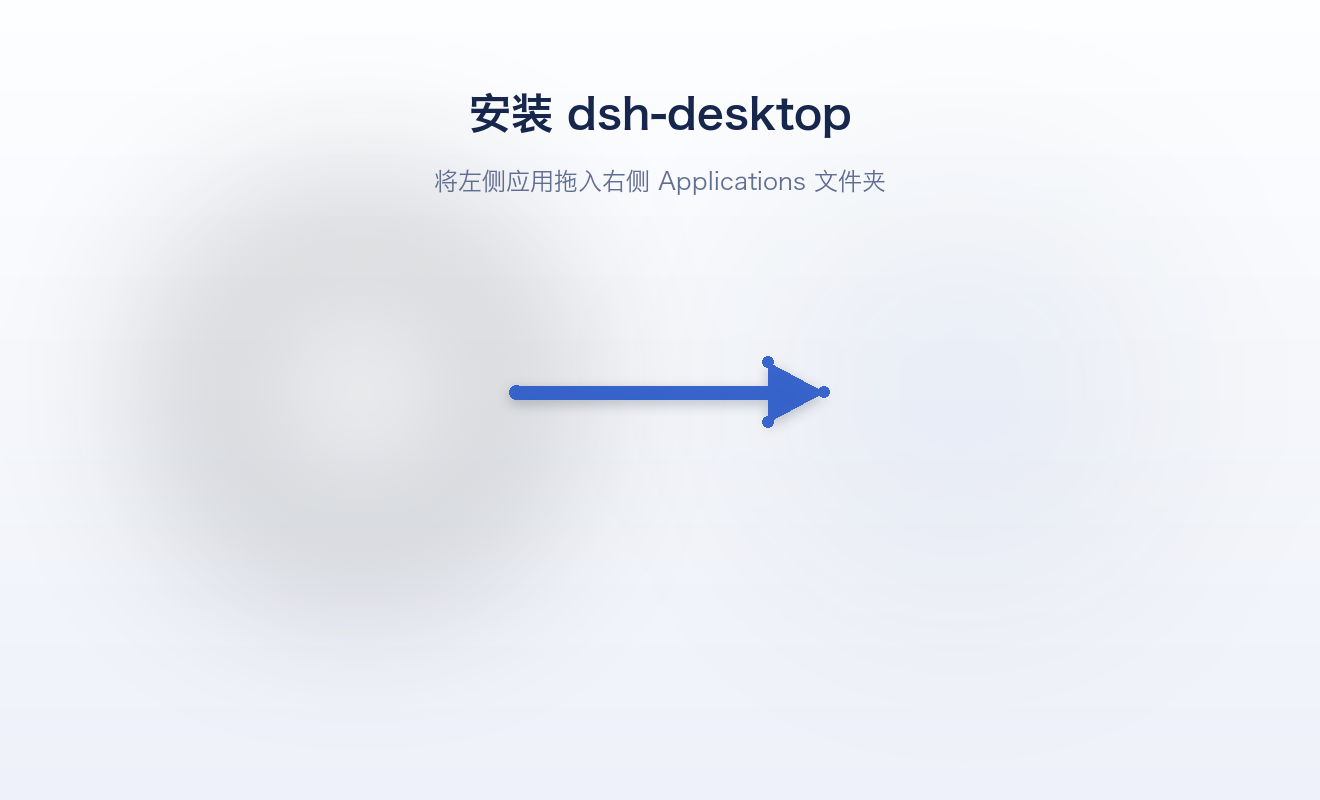
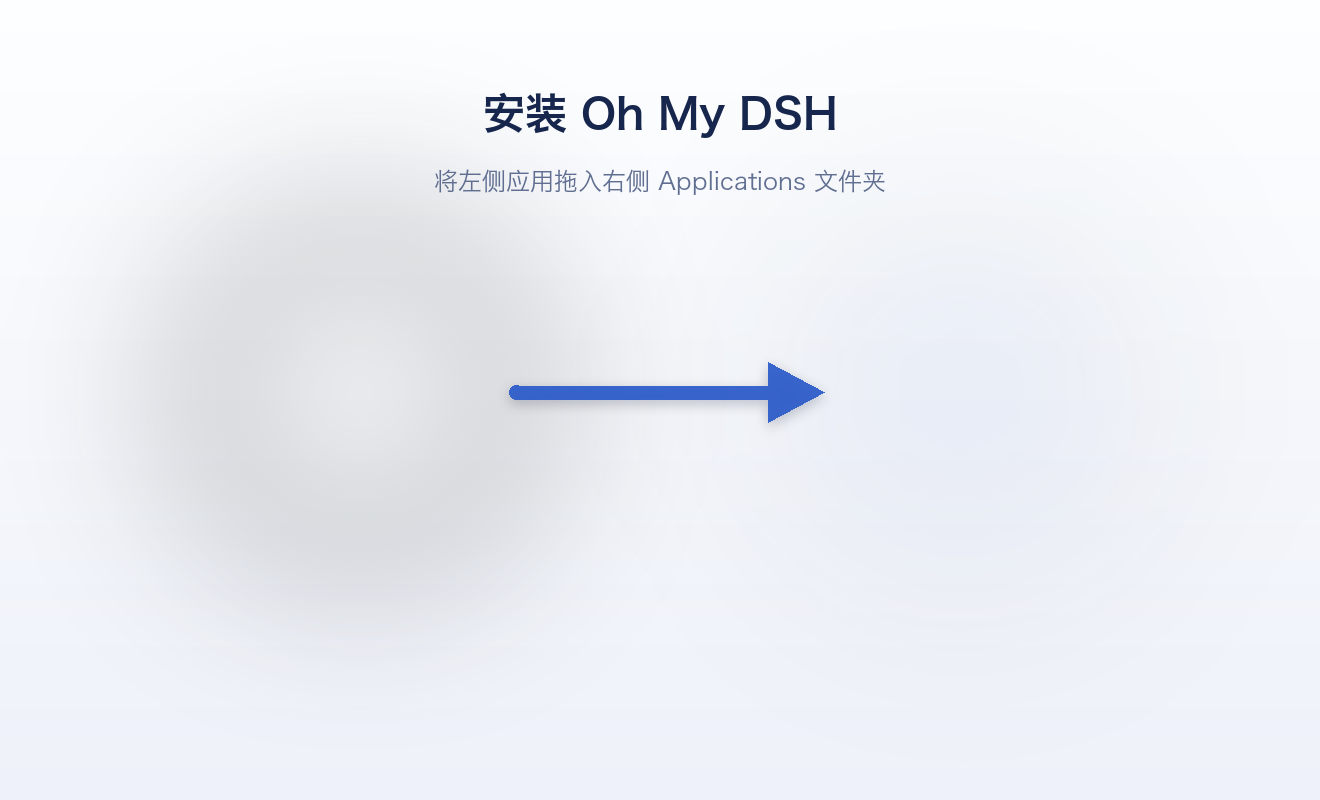
feat: rebrand desktop app as Oh My DSH

Changed region(s): [[0.3417, 0.0938, 0.6523, 0.1875]]

diff --git a/scripts/generate-dmg-background.py b/scripts/generate-dmg-background.py
@@ -74,12 +74,10 @@ def draw_arrow(img):
     d = ImageDraw.Draw(layer)
     brand = (42, 90, 201, 235)         # #2A5AC9 @ 92%
     rounded_line(d, (x0, y), (x1, y), shaft_w, brand)
-    # arrowhead: triangle with slightly rounded look via extra joint discs
+    # Keep the arrowhead as a clean triangle; corner discs become oversized
+    # dots after supersampling and make the installation cue look noisy.
     d.polygon([(x1 - 2 * S, y - head_half), (x1 - 2 * S, y + head_half), (tip, y)],
               fill=brand)
-    for p in [(x1 - 2 * S, y - head_half), (x1 - 2 * S, y + head_half), (tip, y)]:
-        r = 2.6 * S
-        d.ellipse([p[0] - r, p[1] - r, p[0] + r, p[1] + r], fill=brand)
     img.alpha_composite(layer)
 
 
@@ -88,7 +86,7 @@ def draw_text(img):
     title = ImageFont.truetype(FONT_CJK, 21 * S, index=2)      # W6
     sub = ImageFont.truetype(FONT_CJK, 12 * S, index=0)        # W3
 
-    t = "安装 dsh-desktop"
+    t = "安装 Oh My DSH"
     tw = d.textlength(t, font=title)
     d.text(((PW - tw) / 2, 46 * S), t, font=title, fill=(22, 38, 76, 255))
 

diff --git a/src-tauri/src/lib.rs b/src-tauri/src/lib.rs
@@ -166,7 +166,7 @@ pub fn run() {
                 Ok(BootOutcome::ExitRequested) => app_handle.exit(0),
                 Err(error) => {
                     eprintln!("dsh-desktop: boot failed: {error}");
-                    native_dialog::alert("无法启动 DeepSeek Harness", &error);
+                    native_dialog::alert("无法启动 Oh My DSH", &error);
                     app_handle.exit(1);
                 }
             });
@@ -2178,7 +2178,7 @@ fn open_main_window(app: &tauri::AppHandle, url: &str, e2e: bool) -> Result<(), 
     let load_parsed: tauri::Url = load_url.parse().map_err(|e| format!("parse {load_url}: {e}"))?;
     app.run_on_main_thread(move || {
         let builder = WebviewWindowBuilder::new(&handle, "main", WebviewUrl::External(load_parsed))
-            .title("DeepSeek Harness")
+            .title("Oh My DSH")
             .inner_size(1400.0, 900.0)
             .initialization_script(&init_script);
         // macOS: the traffic lights float over the page and no native title

diff --git a/AGENTS.md b/AGENTS.md
@@ -108,7 +108,7 @@ npm 版本依赖是**唯一常态**；源码依赖仅限本地调试，且只能
 - **DSH_HOME 所有权**：默认共享真实用户 home 下的 `.dsh`（Unix `$HOME/.dsh`，Windows `%USERPROFILE%\.dsh`）——桌面与终端是同一账号的两个面（会话历史、工作区、settings、credentials 全部同源可见）。`$DSH_HOME` env 可强制隔离。`~/.dsh-desktop/` 只放壳私有编排数据：`logs/install.log`、`profile-adoptions/<home-hash>/` 经短期跨进程 append lock 串行化的追加式接管状态（损坏记录隔离保留、同 revision 歧义降为 `ConsentRequired`，不得永久阻断启动）、`profile-backups/<home-hash>/<backup-id>/` 可恢复 Web Profile 快照；**sidecar 的 harness 输出走 fork 的 `web:log` 约定**：每次启动一个 `$DSH_HOME/logs/desktop-<yyyymmdd-HHMMSS>.log` + `desktop-latest.log` 软链（与终端 `web-*` 同目录、前缀区分，`DSH_WEB_LOG_DIR` 可覆盖目录；软链 unix-only，Windows 尽力而为、失败则只有 per-boot 文件）。⚠ 并发注意：harness 对同一 DSH_HOME 没有多进程锁；单用户下基本安全（会话是 per-session JSONL，JSON storages 是整文件 last-wins 原子写），但同一会话同时被两个面驱动是未定义行为；协调式单实例是壳 M2 项。**首次接管现有共享 Home 的授权边界**：恢复完壳自己遗留的 Profile 事务后、任何新 mutation 前检查接管状态；既有 Home 必须原生提示 `备份并继续 / 查看变更 / 退出`，说明只更新共享 Web Profile，并保留 sessions、credentials、settings、`.agent-presets`、home patch、其他 profiles 与其他插件；空 Home 不提示但先落 `Adopting` 记录并以 `ProfileExpectation::Missing` 双重检查，防下一次把 Desktop 自建数据误认作用户既有数据，也防检查后终端新建 Profile 的 TOCTOU；发现该竞态则转 `ConsentRequired`、退出并在下一次重新提示。确认后把当前 `profiles/web` 配置（排除可重建 `node_modules`）持久备份到壳私有目录，复制前后校验源身份，安装事务再以该身份做 CAS；已运行过旧版 Desktop 的用户只能诚实备份“当前 Web Profile”，不宣称是历史 pre-Desktop 状态。每次启动把 bridge、compaction 与 web-search-toggle 作为**同一个 Profile 事务**幂等安装（三者目标 realpath 均一致时跳过）：壳在真实 `DSH_HOME` 同级创建等深、同卷的 shadow home，复制 web Profile 的全部配置但不复制 `node_modules`，并把 home 根 `cordis.patch.yml` 只读复制到 shadow 供完整配置校验；在 shadow 中执行旧闭包 frozen install → 三包 `plugin add` → 新闭包 frozen install → 原依赖 realpath/受保护配置/`--dump-config` 校验；全部成功后才以 immutable journal + append-only phase records + rename 提交整棵 `profiles/web`。失败时真实 Profile 不动；提交中断由下一次启动按 durable phase 与 profile marker 确定回滚或收尾；另一个桌面进程持有 journal 或提交前及 `real -> backup` 后检测到真实 Profile 配置、home patch 或 `node_modules` 顶层身份被终端改动时回滚并 fail loud；backup 删除前再复核一次。安装失败必须在 sidecar 启动前原生展示 `重试 / 恢复已保存备份 / 退出`（无备份则没有恢复项），所有 native dialog backend 失败都按退出处理，consent/破坏性动作的默认焦点也是退出；`DSH_DESKTOP_DIALOG_DEFAULT` 自动选择仅在 debug build 或 `DSH_DESKTOP_E2E_PROBE=1` 生效；恢复先追加 `RestorePending` 并绑定当前 Profile 身份，再把快照复制到 shadow、frozen install、完整校验后走同一 journal 提交，因崩溃重启时只收尾已匹配的快照或按 CAS 重试，绝不覆盖恢复请求之后的终端修改（当前 Profile 已删除时允许以 `Missing` CAS 重建）；若终端已产生新内容或恢复持续失败，用户可显式“保留当前 Profile”转 `RestoreAbandoned`，下次重新授权，不能形成永久重试死循环。备份损坏/缺失必须原生 fail loud，可保留当前 Profile 并转 `ConsentRequired`，但不得静默使用或删除该备份；后续清理也保留校验不通过的旧目录。成功转 `Restored`、提示后退出，下次启动重新征求授权。所有其他致命启动错误也必须原生可见，不能只写 stderr。bridge 与 web-search-toggle 的 bundle 层进入 web Profile；compaction 的空 bundle 层只登记可解析包。Windows 原生进程读 `%USERPROFILE%`，不用 Git Bash 的 `$HOME=/c/Users/...`（那不是 Win32 路径）。
 - **端口**：`TcpListener::bind("127.0.0.1:0")` 取随机口，就绪探测 `GET /`（webserver 的 SPA index 路由）状态 2xx（500ms 间隔，120s 超时；tsx 冷启动慢）。
 - **WKWebView 已知坑（已修）**：webserver 对 loopback 并发 **chunked** 响应（无 content-length）会被 WKWebView 随机挂死/加载失败（39 个 boot bundle 突发时必现；Chrome 无此问题）。修复在 harness `packages/client/modules/src/index.ts` 的 serveBundle 显式 `content-length`；sidecar 从源码运行改源即生效，值得上游到 fork。
-- **窗口**：就绪后主线程建 `main` 窗口（1400×900）加载 `http://127.0.0.1:<port>`；初始化脚本注入冻结的 `window.__DSH_DESKTOP__`（platform = `std::env::consts::os`）。macOS 用 `TitleBarStyle::Overlay`：红绿灯悬浮进页面、不画原生标题栏。注意 Overlay 只设 `fullSizeContentView` + `titlebarAppearsTransparent`，**窗口标题文本仍会画进悬浮带**（与页面 logo 重复的「DeepSeek Harness」就是这么来的）——建窗后经 objc2-app-kit 调 `NSWindowTitleVisibility::Hidden`（`hide_painted_title`；直接依赖 `objc2-app-kit`，本就经 tao/wry 在依赖树内）不画标题但保留字符串给 Mission Control / Window 菜单；**红绿灯按 Electron `WindowButtonsProxy` 钉位**（`inset_traffic_lights`：改 close.superview.superview 即 titleBarContainer 的 frame，把它钉在窗口顶边，再在容器内放三钮——只改按钮会输给缩放动画中的系统 layout。目标：圈中线 y19 对齐带内开关 `top:8/22`，红灯左缘 x16 对齐侧栏字标线。`observe_titlebar_layout` 订 `NSWindowDidResize`（缩放动画每一帧都发；Tauri 的 `Resized` 往往只在动画结束才发，太晚）+ `DidEndLiveResize` + 进出全屏；`WillEnter/WillExitFullScreen` 先藏容器防跳，结束后 redraw 复位）；桥插件侧配合见「功能面」标题栏融合条目。其他平台保留原生标题栏。
+- **窗口**：就绪后主线程建 `main` 窗口（1400×900）加载 `http://127.0.0.1:<port>`；初始化脚本注入冻结的 `window.__DSH_DESKTOP__`（platform = `std::env::consts::os`）。macOS 用 `TitleBarStyle::Overlay`：红绿灯悬浮进页面、不画原生标题栏。注意 Overlay 只设 `fullSizeContentView` + `titlebarAppearsTransparent`，**窗口标题文本仍会画进悬浮带**（与页面 logo 重复的「Oh My DSH」就是这么来的）——建窗后经 objc2-app-kit 调 `NSWindowTitleVisibility::Hidden`（`hide_painted_title`；直接依赖 `objc2-app-kit`，本就经 tao/wry 在依赖树内）不画标题但保留字符串给 Mission Control / Window 菜单；**红绿灯按 Electron `WindowButtonsProxy` 钉位**（`inset_traffic_lights`：改 close.superview.superview 即 titleBarContainer 的 frame，把它钉在窗口顶边，再在容器内放三钮——只改按钮会输给缩放动画中的系统 layout。目标：圈中线 y19 对齐带内开关 `top:8/22`，红灯左缘 x16 对齐侧栏字标线。`observe_titlebar_layout` 订 `NSWindowDidResize`（缩放动画每一帧都发；Tauri 的 `Resized` 往往只在动画结束才发，太晚）+ `DidEndLiveResize` + 进出全屏；`WillEnter/WillExitFullScreen` 先藏容器防跳，结束后 redraw 复位）；桥插件侧配合见「功能面」标题栏融合条目。其他平台保留原生标题栏。
 - **IPC 能力**：capability 授 `core:default` + `core:window:allow-start-dragging` + `core:window:allow-internal-toggle-maximize`（拖拽条用，Tauri 2 `data-tauri-drag-region` 的运行时命令）+ 全部 `allow-dsh-desktop-*` 权限（`build.rs` 的 `AppManifest::commands` 自动生成，标识符把下划线转连字符），remote urls 模式 `http://127.0.0.1:*`（随机端口）。
 - **命令后端**：open_external 按平台 `open` / `cmd /C start "" <url>` / `xdg-open`，先做 scheme 白名单（http/https/mailto/tel）；notify 用 `osascript display notification`（darwin）/ PowerShell WinRT toast（windows，AppId `dev.dsh.desktop`）/ `notify-send`（linux），title/body 做引号或 XML 转义。
 - **sidecar 监护（已落地，含优雅退出阶梯与进程组 / Job Object）**：Unix 上 sidecar spawn 进**独立进程组**（`process_group(0)`），终止信号打 `-pgid`——一次内核调用原子覆盖 sidecar 全树（harness 自己 spawn 的 MCP server、工具子进程），无树遍历、无 TOCTOU；`setsid` 逃逸者由下次启动清扫兜底。Windows 上 sidecar 进带 `KILL_ON_JOB_CLOSE` 的 Job Object（壳崩溃即杀整树）；Assign 失败（父进程已在禁止 breakaway 的 job 里）则降级 `taskkill /T`。壳捕获 SIGINT/TERM/HUP（handler 只写原子量，poller 线程执行关闭；Windows 走 `RunEvent::Exit`），退出统一走 **组 SIGTERM→3s→组 SIGKILL 阶梯**（Windows：`taskkill` WM_CLOSE → 3s → `/F`），`RunEvent::Exit` 同路径，收尾后删除自己的注册条目。防孤儿第二道保险——**stale-sidecar 注册表** `~/.dsh-desktop/sidecars.json`：spawn 时记录 `{sidecar/shell pid + 启动时刻, port, log}`，每次启动先清扫再 spawn。清扫**只作用于注册表内 pid**（绝不按进程名扫表，终端 `dsh web` 不可能被误伤）；pid 复用由启动时刻等值比较挡住（Unix `ps lstart`，Windows `GetProcessTimes` FILETIME；复用 pid 的时刻与记录不符 → 视为死）；注册表损坏 fail-open 读空。清扫决策：shell 活 & sidecar 活 → 保留（另一在跑的壳所有）；sidecar 死 → 忘记；shell 死 & sidecar 活 → 孤儿，走阶梯回收后忘记。上游跟踪：tauri#14443（sidecar 树杀 + PID 注册表 PR）与 plugins-workspace#1332（shell 插件 process-group 选项，process-wrap）均已留评论分享实测数据。
@@ -222,6 +222,6 @@ DSH_DESKTOP_E2E_PROBE=1 DSH_DESKTOP_E2E_EXIT=1 pnpm desktop:dev; echo "exit=$?"
 
 ### 打包（M3 已落地，手册：`docs/packaging-playbook.md`）
 
-`pnpm desktop:build` 一键出平台安装包：macOS `.app` + `.dmg`（aarch64；**签名+公证版 ~160MB**，ad-hoc 降级 ~113MB）；Windows NSIS `*-setup.exe`（x86_64，currentUser，不需管理员）。**runtime 必须在目标 OS 上组装**（native 模块与 node 二进制布局），缓存键含 `platform-arch`。资源走 **tarball** 而非散目录：runtime 树是 pnpm 安装（Unix 3k+ 符号链接；Windows 用 `node-linker=hoisted` 实目录——bsdtar 会把 junction 展开成拷贝，isolated 布局下 `tsx` 会丢 `esbuild`），tauri-bundler 对目录资源不承诺保链接（解引用拷贝会让 .pnpm store 膨胀 GB 级）；tar 往返在 Unix 上链接感知，且解压到 home 规避 App Translocation 只读卷。Windows 解压：GNU tar 需要 `--force-local`（否则 `C:` 被当成远程主机）；Win11 自带 bsdtar 3.8.4 不认该选项且绝对路径可直接解——prepare 与壳按 `tar --help` 探测后按需加 flag。`beforeBuildCommand` 先跑 `scripts/prepare-desktop-bundle.mjs`（bridge + compaction + web-search-toggle + model-image-input + send-while-running 构建 → runtime 组装（SHA 键控缓存 + `SCRIPT_REV` 组装版本盐）→ 打 `src-tauri/resources/{runtime.tar.gz,runtime-revision.json,bridge.tar.gz,compaction-hierarchical.tar.gz,web-search-toggle.tar.gz,model-image-input.tar.gz,send-while-running.tar.gz}`，gitignored、按需再生；revision 副本含六个 tarball 的 **sha256** 与 Web Search / model-image-input / send-while-running 插件版本，壳的 `.ok` 缓存按资源内容寻址——同 revision 的任一插件重建都会重解压对应包）。**bundled runtime 与源码 runtime 行为对齐**：tsx 是 runtime 一等依赖，`bundled_runtime` 同样 `--import tsx/esm`——profile 可挂 `file:` 源码分发插件（.ts 入口），纯 Node 拒绝剥 node_modules 下的类型（0.1.0 实踩：真实 home 全树崩溃，scratch home 测不出，**e2e 矩阵必须含真实 home 场景**）。**裸 `cargo build/check` 会因 build.rs 校验资源缺失而失败**，必须先 prepare。分发：**macOS 签名+公证已落地**——`.app`/`.dmg` 均 `spctl` 应答 `source=Notarized Developer ID`（**公证扫描会钻进 tar.gz**，runtime 树 16 个 Mach-O 打 tar 前逐个 Developer ID 签名，`DSH_CODESIGN_IDENTITY` 门控 + allow-jit entitlements；hardened runtime 已开；DMG 需 `notarytool submit` 单独公证；ASC 个人 API 密钥不能用于 notarytool，用 App 专用密码）。DMG 的 Finder 定制布局依赖卷根 `.DS_Store`；Tauri 在 `CI=true` 下默认走 `--skip-jenkins` 只复制背景、不写布局，故 macOS Release job 必须设 `TAURI_BUNDLER_DMG_IGNORE_CI=true`，并在公证前用 `scripts/verify-dmg-layout.sh` 挂载最终 DMG 做 fail-loud 校验。凭据与完整流程见 playbook §5。Windows NSIS 的 Authenticode 按 playbook §9：GitHub Secrets `WINDOWS_CERTIFICATE` + `WINDOWS_CERTIFICATE_PASSWORD`（pfx base64）有则签、空则跳过（SmartScreen 可能警告）；`tauri.conf.json` 不写死 thumbprint。**自动更新（0.1.2 起）**：`tauri-plugin-updater` + `createUpdaterArtifacts`，端点 `releases/latest/download/latest.json`，更新包 macOS `dsh-desktop.app.tar.gz` / Windows `*-setup.exe`，经 tauri 签名私钥（`tauri-keys/`，gitignored）签名、公钥在 `tauri.conf.json` plugins.updater；`latest.json` 的 `platforms` 含 `darwin-aarch64` 与 `windows-x86_64`，由 macos+windows 两 job 出 fragment、publish job 合并。发布流水线 `.github/workflows/release.yml`（tag 触发），发布手册 `docs/release-runbook.md`。
+`pnpm desktop:build` 一键出平台安装包：macOS `.app` + `.dmg`（aarch64；**签名+公证版 ~160MB**，ad-hoc 降级 ~113MB）；Windows NSIS `*-setup.exe`（x86_64，currentUser，不需管理员）。**runtime 必须在目标 OS 上组装**（native 模块与 node 二进制布局），缓存键含 `platform-arch`。资源走 **tarball** 而非散目录：runtime 树是 pnpm 安装（Unix 3k+ 符号链接；Windows 用 `node-linker=hoisted` 实目录——bsdtar 会把 junction 展开成拷贝，isolated 布局下 `tsx` 会丢 `esbuild`），tauri-bundler 对目录资源不承诺保链接（解引用拷贝会让 .pnpm store 膨胀 GB 级）；tar 往返在 Unix 上链接感知，且解压到 home 规避 App Translocation 只读卷。Windows 解压：GNU tar 需要 `--force-local`（否则 `C:` 被当成远程主机）；Win11 自带 bsdtar 3.8.4 不认该选项且绝对路径可直接解——prepare 与壳按 `tar --help` 探测后按需加 flag。`beforeBuildCommand` 先跑 `scripts/prepare-desktop-bundle.mjs`（bridge + compaction + web-search-toggle + model-image-input + send-while-running 构建 → runtime 组装（SHA 键控缓存 + `SCRIPT_REV` 组装版本盐）→ 打 `src-tauri/resources/{runtime.tar.gz,runtime-revision.json,bridge.tar.gz,compaction-hierarchical.tar.gz,web-search-toggle.tar.gz,model-image-input.tar.gz,send-while-running.tar.gz}`，gitignored、按需再生；revision 副本含六个 tarball 的 **sha256** 与 Web Search / model-image-input / send-while-running 插件版本，壳的 `.ok` 缓存按资源内容寻址——同 revision 的任一插件重建都会重解压对应包）。**bundled runtime 与源码 runtime 行为对齐**：tsx 是 runtime 一等依赖，`bundled_runtime` 同样 `--import tsx/esm`——profile 可挂 `file:` 源码分发插件（.ts 入口），纯 Node 拒绝剥 node_modules 下的类型（0.1.0 实踩：真实 home 全树崩溃，scratch home 测不出，**e2e 矩阵必须含真实 home 场景**）。**裸 `cargo build/check` 会因 build.rs 校验资源缺失而失败**，必须先 prepare。分发：**macOS 签名+公证已落地**——`.app`/`.dmg` 均 `spctl` 应答 `source=Notarized Developer ID`（**公证扫描会钻进 tar.gz**，runtime 树 16 个 Mach-O 打 tar 前逐个 Developer ID 签名，`DSH_CODESIGN_IDENTITY` 门控 + allow-jit entitlements；hardened runtime 已开；DMG 需 `notarytool submit` 单独公证；ASC 个人 API 密钥不能用于 notarytool，用 App 专用密码）。DMG 的 Finder 定制布局依赖卷根 `.DS_Store`；Tauri 在 `CI=true` 下默认走 `--skip-jenkins` 只复制背景、不写布局，故 macOS Release job 必须设 `TAURI_BUNDLER_DMG_IGNORE_CI=true`，并在公证前用 `scripts/verify-dmg-layout.sh` 挂载最终 DMG 做 fail-loud 校验。凭据与完整流程见 playbook §5。Windows NSIS 的 Authenticode 按 playbook §9：GitHub Secrets `WINDOWS_CERTIFICATE` + `WINDOWS_CERTIFICATE_PASSWORD`（pfx base64）有则签、空则跳过（SmartScreen 可能警告）；`tauri.conf.json` 不写死 thumbprint。**自动更新（0.1.2 起）**：`tauri-plugin-updater` + `createUpdaterArtifacts`，端点 `releases/latest/download/latest.json`，更新包 macOS `Oh My DSH.app.tar.gz` / Windows `*-setup.exe`，经 tauri 签名私钥（`tauri-keys/`，gitignored）签名、公钥在 `tauri.conf.json` plugins.updater；`latest.json` 的 `platforms` 含 `darwin-aarch64` 与 `windows-x86_64`，由 macos+windows 两 job 出 fragment、publish job 合并。发布流水线 `.github/workflows/release.yml`（tag 触发），发布手册 `docs/release-runbook.md`。
 
 插件（本文件「功能面」的 M1/M2）；壳的 Rust 侧实现需本机 Rust toolchain（stable，已就绪）。

diff --git a/docs/release-runbook.md b/docs/release-runbook.md
@@ -60,7 +60,7 @@ git tag dsh-provider-balance-v0.4.2 && git push origin dsh-provider-balance-v0.4
 
 ## 2. 自动更新的接线（已内置，无需操作）
 
-- 壳内 `tauri-plugin-updater` 端点：`releases/latest/download/latest.json`（随包配置）；更新包是 macOS `dsh-desktop.app.tar.gz` 与 Windows `*-setup.exe`，签名校验用上面的 tauri 私钥对应的公钥；`latest.json` 的 `platforms` 必须同时带上已发布的每一个 OS，缺一项该平台的检查会失败；
+- 壳内 `tauri-plugin-updater` 端点：`releases/latest/download/latest.json`（随包配置）；更新包是 macOS `Oh My DSH.app.tar.gz` 与 Windows `*-setup.exe`，签名校验用上面的 tauri 私钥对应的公钥；`latest.json` 的 `platforms` 必须同时带上已发布的每一个 OS，缺一项该平台的检查会失败；
 - 用户侧：**后台定时检查**（启动 3s 首查，之后每 2h）——macOS 有新版时左上角侧栏开关旁亮出下载图标（收起态 `+` 仍在其右侧），其他平台用右上角 fallback；点击后原位旋转并完成下载与签名校验，再弹确认框，只有确认才安装并自动重启；离线/无端点时入口不出现、完全静默；
 - **GitHub 的 latest 指向**：desktop Release `make_latest: true` 独占 latest；插件 Release 一律 `make_latest: false`（见 §0 的指针纪律）。
 
@@ -73,7 +73,7 @@ export APPLE_SIGNING_IDENTITY="$DSH_CODESIGN_IDENTITY"
 export APPLE_ID="…" APPLE_PASSWORD="…" APPLE_TEAM_ID="…"
 export TAURI_SIGNING_PRIVATE_KEY="$(cat tauri-keys/dsh-desktop.key)"
 pnpm desktop:build
-xcrun notarytool submit src-tauri/target/release/bundle/dmg/dsh-desktop_*_aarch64.dmg \
+xcrun notarytool submit "src-tauri/target/release/bundle/dmg/Oh My DSH_*_aarch64.dmg" \
   --apple-id "$APPLE_ID" --password "$APPLE_PASSWORD" --team-id "$APPLE_TEAM_ID" --wait
 # 上传：Releases 页手动拖 dmg + app.tar.gz + .sig + latest.json
 # （latest.json 用 CI 步骤里那段 node 脚本本地生成）

diff --git a/docs/notes/2026-08-22-oh-my-dsh-app-name.md b/docs/notes/2026-08-22-oh-my-dsh-app-name.md
@@ -1,0 +1,11 @@
+# 2026-08-22 — Desktop app branding
+
+## Decision
+
+The desktop product name is **Oh My DSH**. Tauri's `productName`, the native window title, boot failure dialog, and the DMG installation background use that name.
+
+The internal crate name, executable name, `dev.dsh.desktop` identifier, `window.__DSH_DESKTOP__` shell value, IPC command names, log prefixes, and plugin package IDs remain unchanged. They are runtime compatibility identifiers rather than user-facing branding.
+
+## Packaging impact
+
+Tauri derives the visible `.app`, DMG, NSIS, and macOS updater archive names from `productName`. The macOS release job therefore discovers the single generated `.app.tar.gz`, URL-encodes its asset name in `latest-darwin.json`, and publishes archive globs instead of the old fixed `dsh-desktop` filenames.

diff --git a/docs/notes/2026-08-18-edge-to-edge-titlebar.md b/docs/notes/2026-08-18-edge-to-edge-titlebar.md
@@ -22,7 +22,8 @@ Fix: `hide_painted_title()` in the shell calls
 via objc2-app-kit — already in the dependency tree through tao/wry, so the
 direct reference adds no compile cost. Hidden paints nothing but keeps the
 string readable by Mission Control / the Window menu (unlike `.title("")`,
-which empties those surfaces too). We keep `.title("DeepSeek Harness")`.
+which empties those surfaces too). At the time this note was written we kept
+`.title("DeepSeek Harness")`; the current product title is `Oh My DSH`.
 
 ## Root cause 2: padding the frame ≠ padding the content
 
